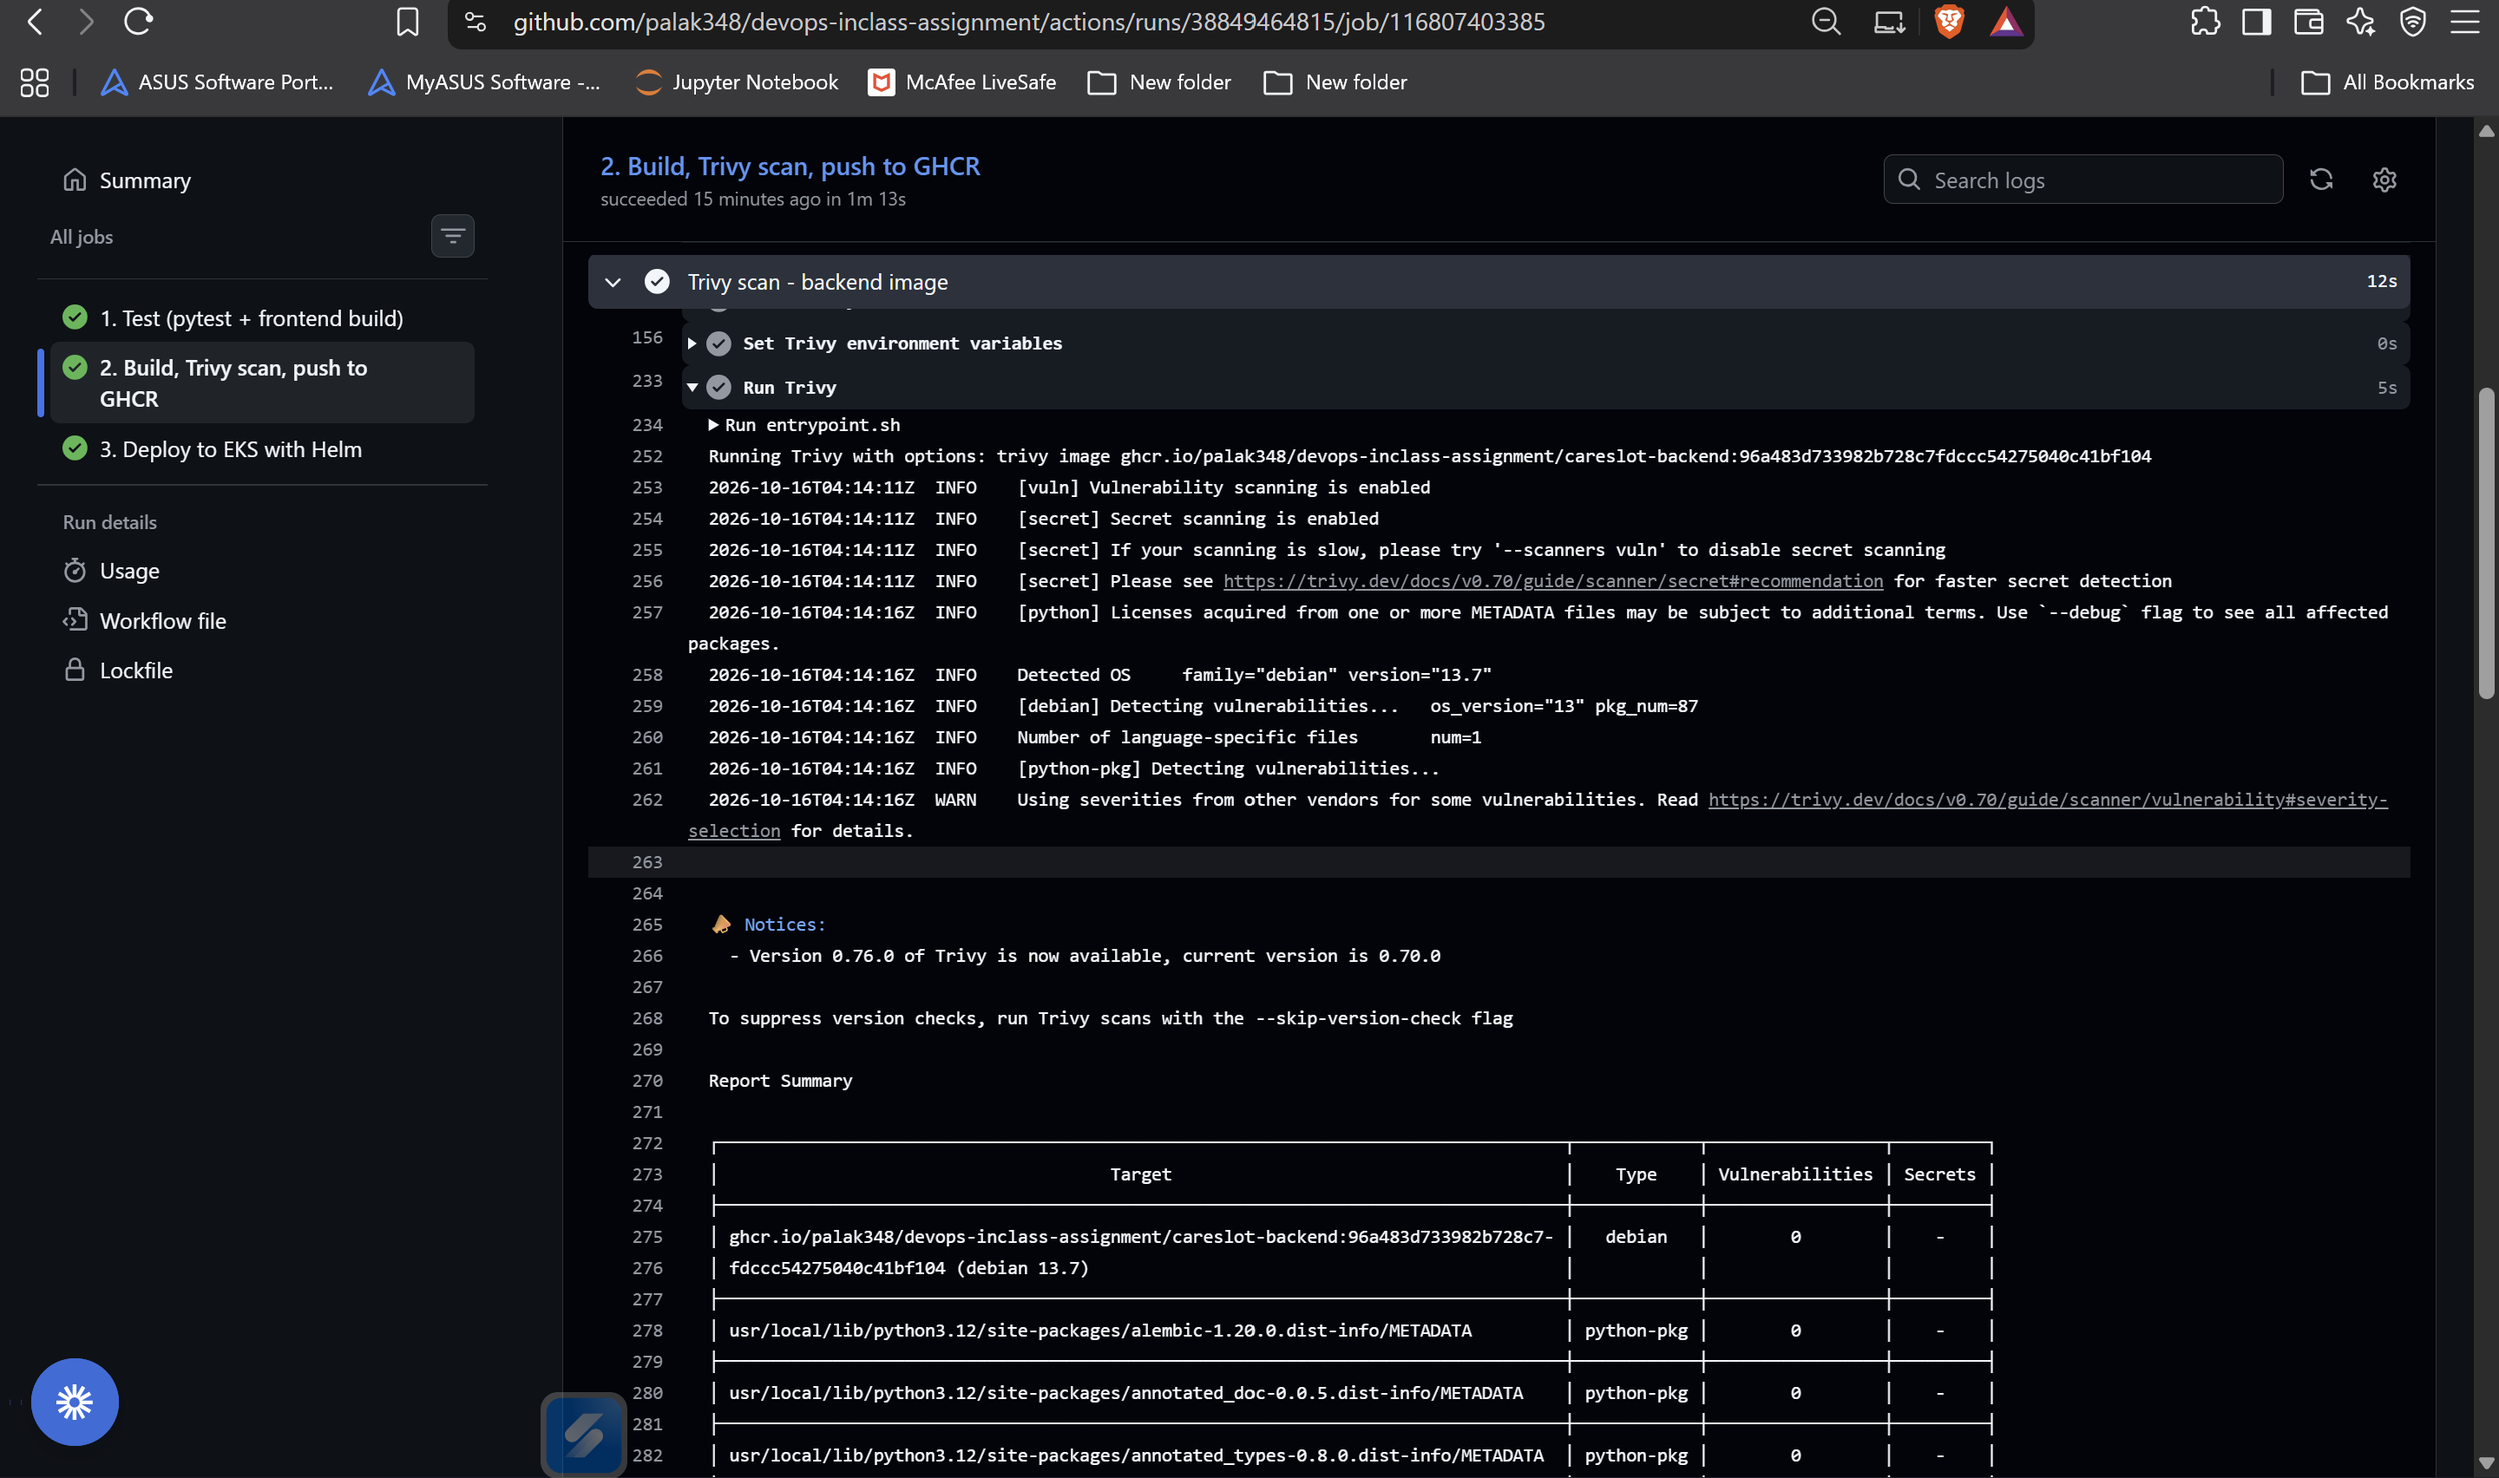
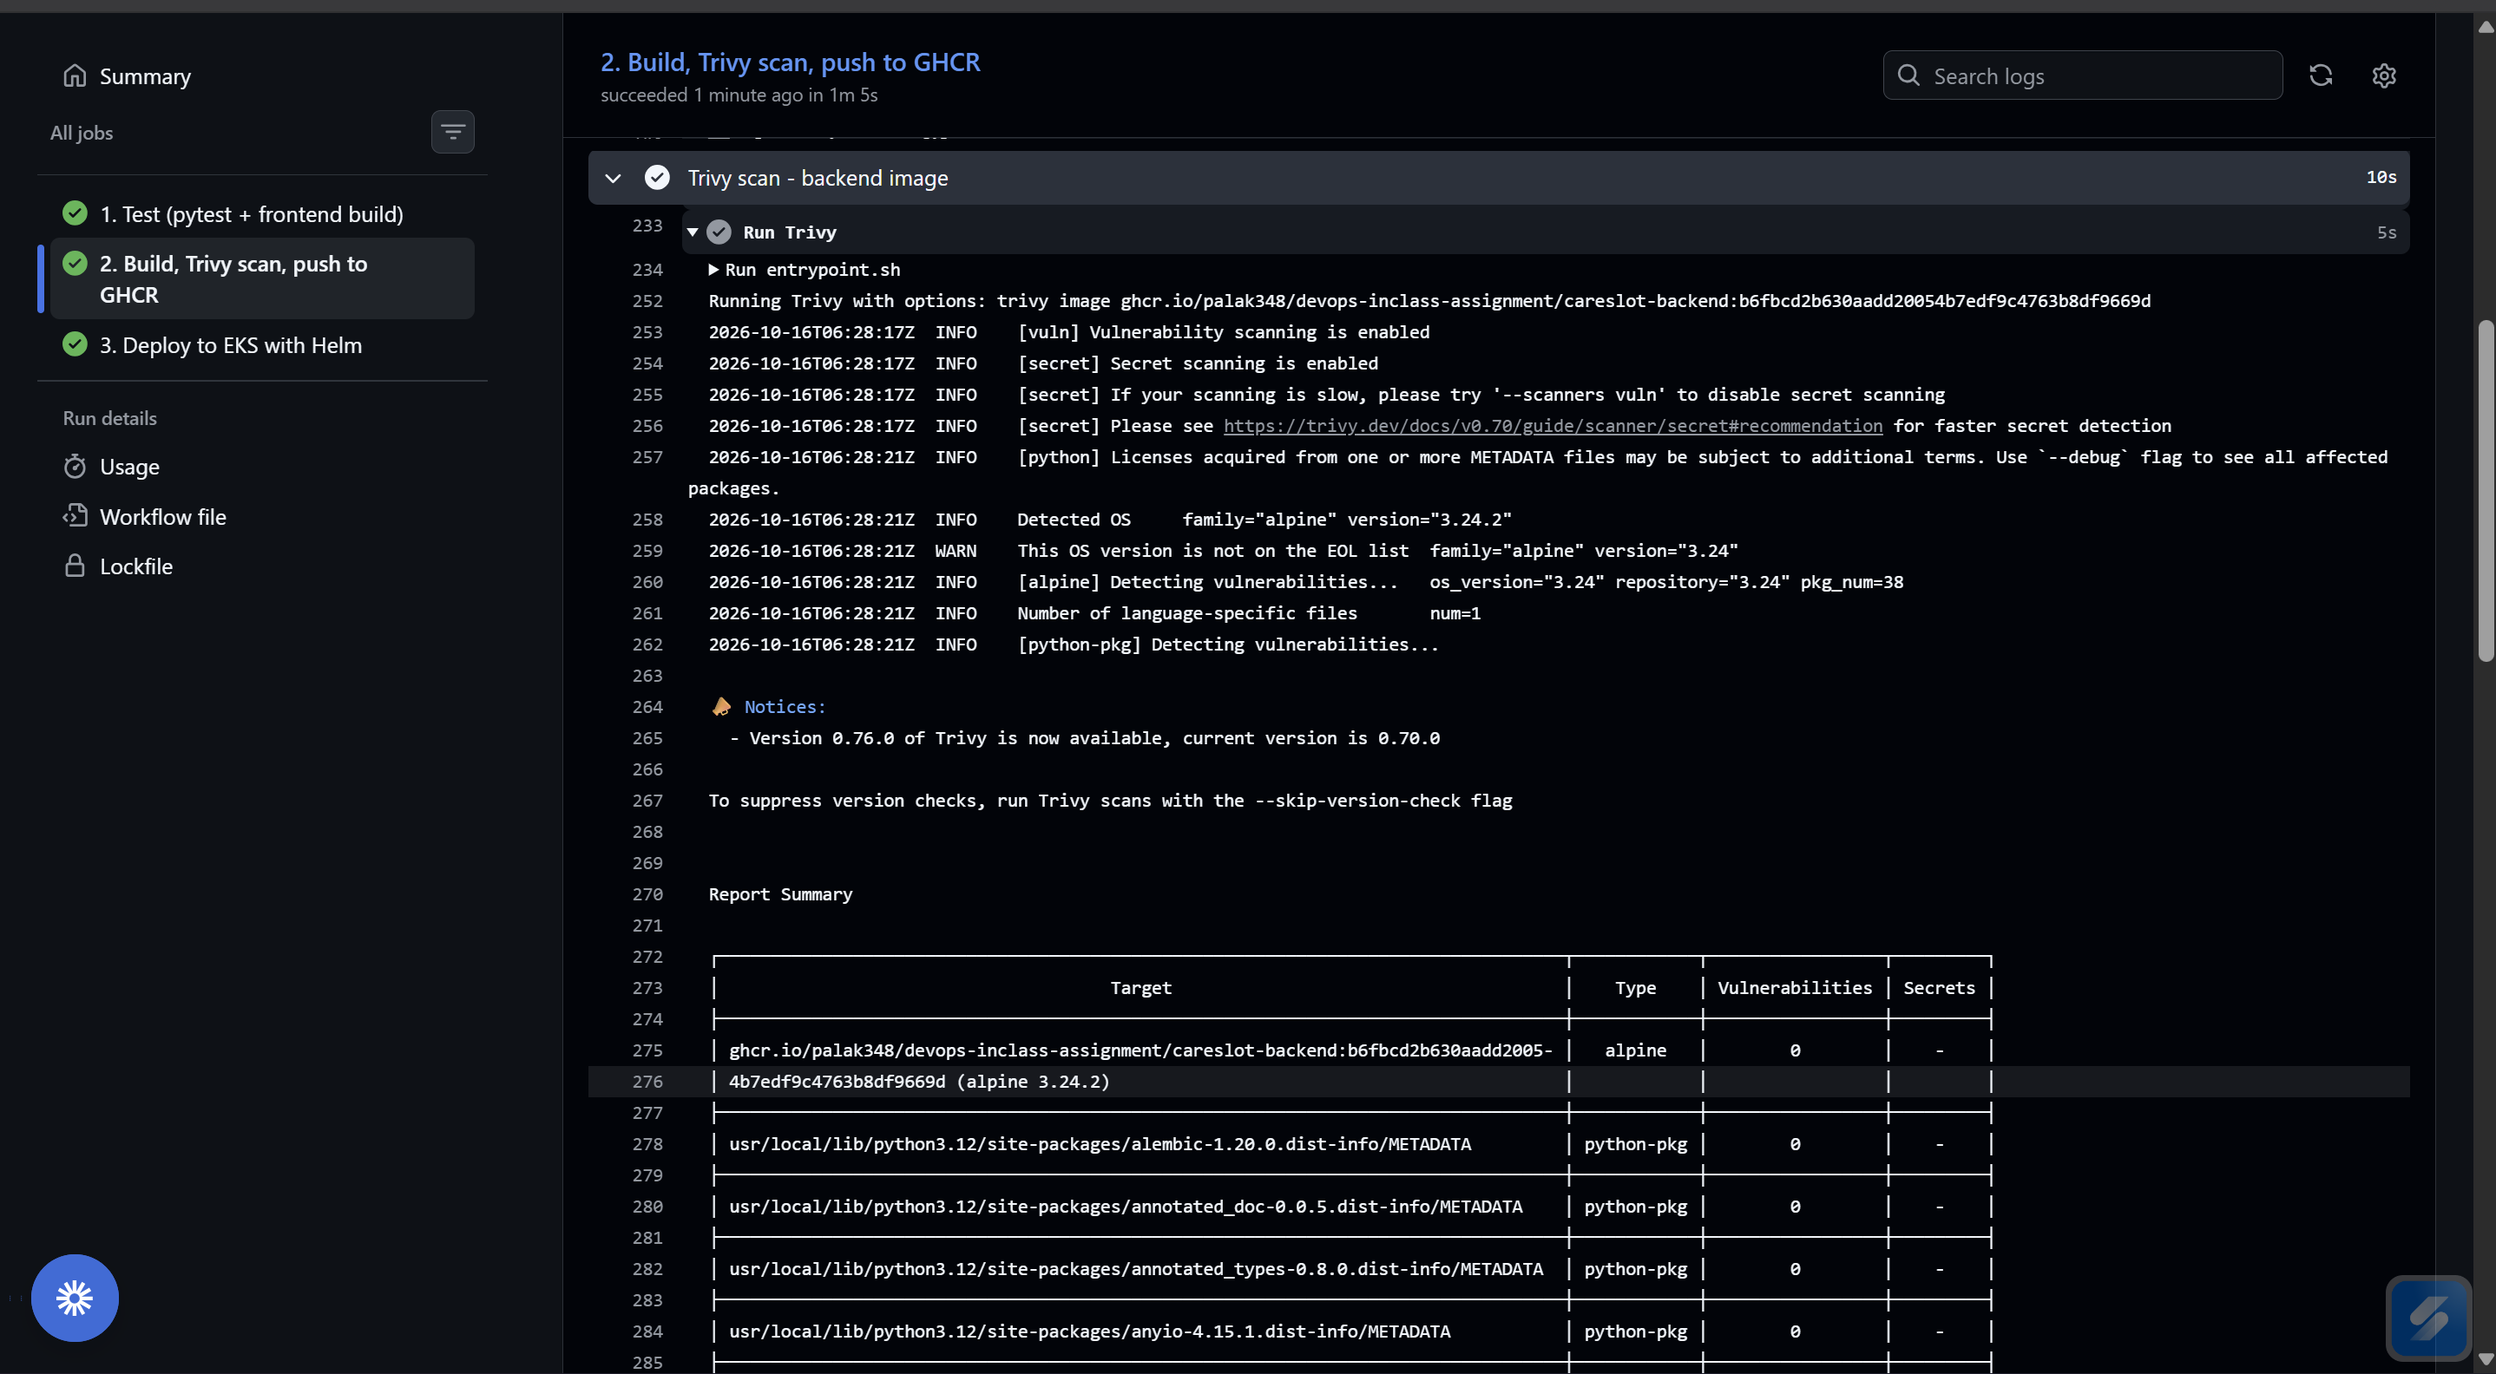
docs(final-project): record the strict-gate Trivy run and its screenshots

diff --git a/devops-class-main/Final-Project/docs/TRIVY.md b/devops-class-main/Final-Project/docs/TRIVY.md
@@ -63,9 +63,19 @@ docker run --rm -v /var/run/docker.sock:/var/run/docker.sock aquasec/trivy:lates
 # drop --severity to see MEDIUM/LOW too: both images report none (2026-10-16)
 ```
 
-The CVE database changes daily, so the CI run on the day of submission is the authoritative
-result; its screenshots are `docs/screenshots/m6-trivy-backend.png` and
-`docs/screenshots/m6-trivy-frontend.png`.
+### CI result (authoritative)
+
+Run [38861267530](https://github.com/palak348/devops-inclass-assignment/actions/runs/38861267530)
+(commit `b6fbcd2`, strict gate - no `ignore-unfixed`), Trivy 0.70.0 via `trivy-action@v0.36.0`:
+
+| Image | OS detected | Packages | Vulnerabilities |
+|---|---|---|---|
+| `careslot-backend:b6fbcd2…` | Alpine 3.24.2 | 38 OS packages + Python site-packages | **0** |
+| `careslot-frontend:b6fbcd2…` | Alpine 3.24.2 | 70 OS packages | **0** |
+
+Screenshots: `docs/screenshots/m6-trivy-backend.png`, `docs/screenshots/m6-trivy-frontend.png`.
+The CVE database changes daily, so a later run can report something new - which is exactly
+why the scan runs on every build and blocks the push.
 
 ## Where this sits among other security controls
 
